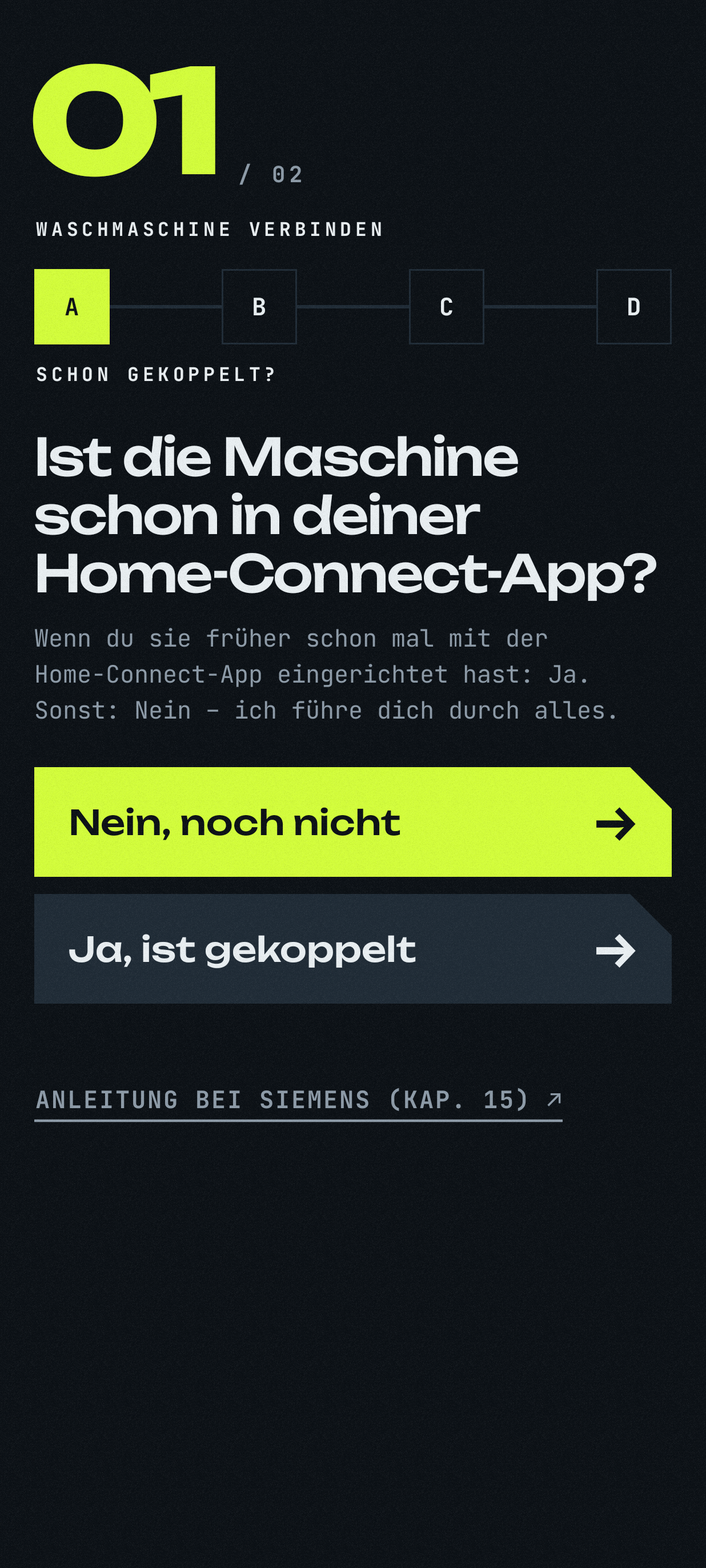
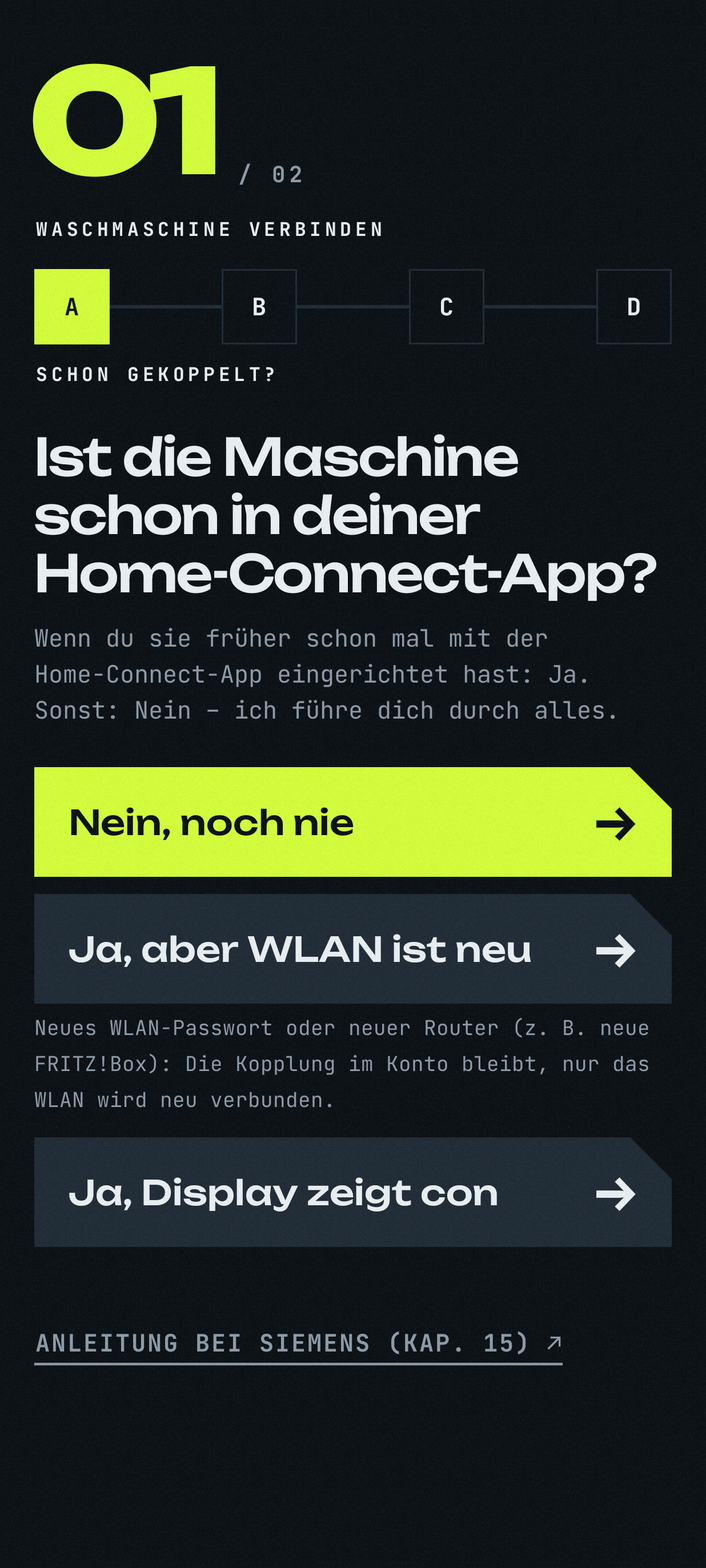
Waschmaschine: Assistent-Antwort „Ja, aber WLAN ist neu“ (WLAN per WPS neu, Koppeln überspringen), klare Anleitung falls Kopplung im Konto fehlt
Claude-Session: https://claude.ai/code/session_01AC3hVdWSVNJhTZ4f6trdT7

diff --git a/waschmaschine/app/src/main/java/de/tiry/waschmaschine/ui/Assistent.kt b/waschmaschine/app/src/main/java/de/tiry/waschmaschine/ui/Assistent.kt
@@ -77,6 +77,7 @@ fun Assistent(
     aktionen: AssistentAktionen,
 ) {
     var schritt by remember { mutableStateOf(start) }
+    var schonGekoppelt by remember { mutableStateOf(false) }
     Flaeche(Modifier.background(Farbe.Grund)) {
         Column(Modifier.fillMaxSize().windowInsetsPadding(WindowInsets.safeDrawing).verticalScroll(rememberScrollState()).padding(horizontal = 20.dp)) {
             Spacer(Modifier.height(18.dp))
@@ -96,9 +97,12 @@ fun Assistent(
                             Spacer(Modifier.height(10.dp))
                             Text("Wenn du sie früher schon mal mit der Home-Connect-App eingerichtet hast: Ja. Sonst: Nein – ich führe dich durch alles.", style = Schrift.Text.copy(color = Farbe.Nebel))
                             Spacer(Modifier.height(24.dp))
-                            Haupttaste("Nein, noch nicht", onClick = { schritt = Teilschritt.WLAN })
+                            Haupttaste("Nein, noch nie", onClick = { schonGekoppelt = false; schritt = Teilschritt.WLAN })
                             Spacer(Modifier.height(10.dp))
-                            Haupttaste("Ja, ist gekoppelt", aktiv = true, onClick = { schritt = Teilschritt.SCHLUESSEL }, dunkel = true)
+                            Haupttaste("Ja, aber WLAN ist neu", dunkel = true, onClick = { schonGekoppelt = true; schritt = Teilschritt.WLAN })
+                            Text("Neues WLAN-Passwort oder neuer Router (z. B. neue FRITZ!Box): Die Kopplung im Konto bleibt, nur das WLAN wird neu verbunden.", style = Schrift.Text.copy(color = Farbe.Nebel, fontSize = 12.sp), modifier = Modifier.padding(top = 6.dp, bottom = 4.dp))
+                            Spacer(Modifier.height(10.dp))
+                            Haupttaste("Ja, Display zeigt con", dunkel = true, onClick = { schonGekoppelt = true; schritt = Teilschritt.SCHLUESSEL })
                         }
                         Teilschritt.WLAN -> {
                             Text("Ohne Passwort-Tippen: per WPS-Knopf der FRITZ!Box.", style = Schrift.Text.copy(color = Farbe.Nebel))
@@ -115,7 +119,7 @@ fun Assistent(
                             Spacer(Modifier.height(14.dp))
                             Livepruefung(imWlanGefunden, sucht)
                             Spacer(Modifier.height(18.dp))
-                            Haupttaste(if (imWlanGefunden != null) "Im WLAN – weiter" else "Display zeigt con – weiter", onClick = { schritt = Teilschritt.KOPPELN })
+                            Haupttaste(if (imWlanGefunden != null) "Im WLAN – weiter" else "Display zeigt con – weiter", onClick = { schritt = if (schonGekoppelt) Teilschritt.SCHLUESSEL else Teilschritt.KOPPELN })
                             Spacer(Modifier.height(18.dp))
                             Etikett("?", "Klappt nicht")
                             Hinweis("Display zeigt „Home Connect Error“: Maschine ist zu weit vom WLAN weg oder WPS kam zu spät. Schritte 2–4 wiederholen.")

diff --git a/waschmaschine/app/src/main/java/de/tiry/waschmaschine/MainActivity.kt b/waschmaschine/app/src/main/java/de/tiry/waschmaschine/MainActivity.kt
@@ -148,7 +148,7 @@ class MainActivity : ComponentActivity() {
                     try {
                         val funde = withContext(Dispatchers.IO) { abruf!!.hole(abruf!!.codeAus(url)) }
                         val f = funde.firstOrNull { it.istWaschmaschine } ?: funde.firstOrNull()
-                            ?: throw IllegalStateException("Im Konto ist keine Waschmaschine gekoppelt.")
+                            ?: throw IllegalStateException("In deinem Konto ist keine Waschmaschine gekoppelt – die alte Kopplung ist weg. Tippe oben auf „C“ und koppel sie einmal neu, dann hier nochmal.")
                         stand = stand.copy(meldung = "Schlüssel da. Suche die Maschine im WLAN …")
                         val adr = withTimeoutOrNull(60_000) { z.suche.finde(f.profil) { m -> stand = stand.copy(meldung = m) } }
                         z.ablage.profil = f.profil.copy(adresse = adr)
